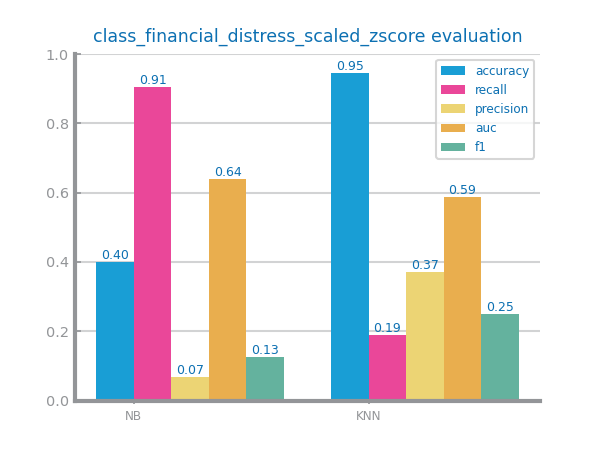
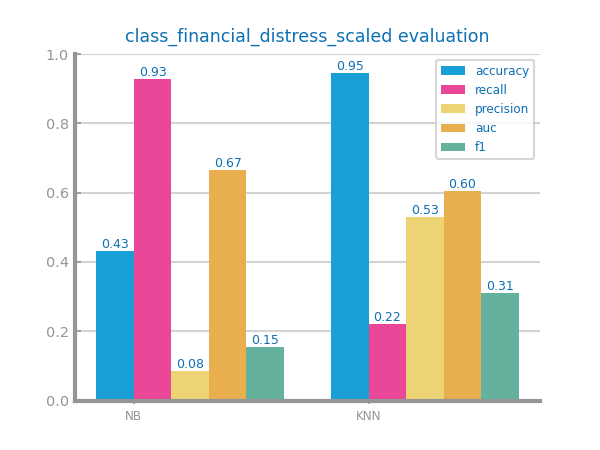
Scaling Scripts

diff --git a/Data_Preparation/processing_scaling_economical.py b/Data_Preparation/processing_scaling_economical.py
@@ -5,23 +5,26 @@ import pandas as pd
 from matplotlib.pyplot import subplots, show, savefig
 
 file = "class_financial_distress"
-filename = "./Data/class_financial_distress.csv"
+filename = "./Data/test_class_financial_distress.csv"
+filename_train = "./Data/train_class_financial_distress.csv"
 data: DataFrame = read_csv(filename, index_col=None, na_values="")
+data_train: DataFrame = read_csv(filename_train, index_col=None, na_values="")
 target = "CLASS"
 vars: list[str] = data.columns.to_list()
 target_data: Series = data.pop(target)
+target_data_train: Series = data_train.pop(target)
 
 
-transf: StandardScaler = StandardScaler(with_mean=True, with_std=True, copy=True).fit(data)
-df_zscore = DataFrame(transf.transform(data), columns=data.columns, index=data.index)
-df_zscore[target] = target_data
-df_zscore.to_csv(f"Data/{file}_scaled_zscore.csv", index=None)
+transf: StandardScaler = StandardScaler(with_mean=True, with_std=True, copy=True).fit(data_train)
+df_zscore = DataFrame(transf.transform(data_train), columns=data_train.columns, index=data_train.index)
+df_zscore[target] = target_data_train
+df_zscore.to_csv(f"Data/train_{file}_scaled_zscore.csv", index=None)
 
 
-transf: MinMaxScaler = MinMaxScaler(feature_range=(0, 1), copy=True).fit(data)
-df_minmax = DataFrame(transf.transform(data), columns=data.columns, index=data.index)
-df_minmax[target] = target_data
-df_minmax.to_csv(f"Data/{file}_scaled_minmax.csv", index=None)
+transf: MinMaxScaler = MinMaxScaler(feature_range=(0, 1), copy=True).fit(data_train)
+df_minmax = DataFrame(transf.transform(data_train), columns=data_train.columns, index=data_train.index)
+df_minmax[target] = target_data_train
+df_minmax.to_csv(f"Data/train_{file}_scaled_minmax.csv", index=None)
 
 
 

diff --git a/Data_Preparation/processing_methodology_economical.py b/Data_Preparation/processing_methodology_economical.py
@@ -48,17 +48,17 @@ def evaluate_approach(
     return eval
 
 
-file_tag = "class_financial_distress_under"
-filename = "./Data/class_financial_distress_under.csv"
+file_tag = "class_financial_distress_scaled"
+methodology = "zscore"
+evaluating = "scaling"
 target = "CLASS"
-data: DataFrame = read_csv(filename, index_col=None, na_values="")
-train: DataFrame = read_csv("Data/train_data_under_economical.csv")
-test: DataFrame = read_csv("Data/test_data_under_economical.csv")
+train: DataFrame = read_csv(f"Data/train_{file_tag}_{methodology}.csv")
+test: DataFrame = read_csv(f"Data/test_{file_tag}_{methodology}.csv")
 
 figure()
 eval: dict[str, list] = evaluate_approach(train, test, target=target, metric="recall")
 plot_multibar_chart(
     ["NB", "KNN"], eval, title=f"{file_tag} evaluation", percentage=True
 )
-savefig(f"Data_Preparation/Images/class_financial_distress_balancing/{file_tag}_eval.png")
+savefig(f"Data_Preparation/Images/class_financial_distress_{evaluating}/{file_tag}_{methodology}_eval.png")
 show()

diff --git a/Classification/generating_tests_economical.py b/Classification/generating_tests_economical.py
@@ -4,15 +4,15 @@ from sklearn.model_selection import train_test_split
 # Load the dataset
 method_tag = "smote" 
 file_tag = "class_financial_distress"
-filename = f"Data/{file_tag}_{method_tag}.csv"  # Replace with your dataset's filename
+filename = f"Data/{file_tag}.csv"  # Replace with your dataset's filename
 data = pd.read_csv(filename)
 
 # Split the data into 80% and 20%
 train_data, test_data = train_test_split(data, test_size=0.2, random_state=42)
 
 # Save the splits to separate CSV files
-train_data.to_csv(f"Data/train_{file_tag}_{method_tag}.csv", index=False)
-test_data.to_csv(f"Data/test_{file_tag}_{method_tag}.csv", index=False)
+train_data.to_csv(f"Data/train_{file_tag}.csv", index=False)
+test_data.to_csv(f"Data/test_{file_tag}.csv", index=False)
 
 print("Data has been split and saved:")
 print("80% of data saved to 'train_data.csv'")
